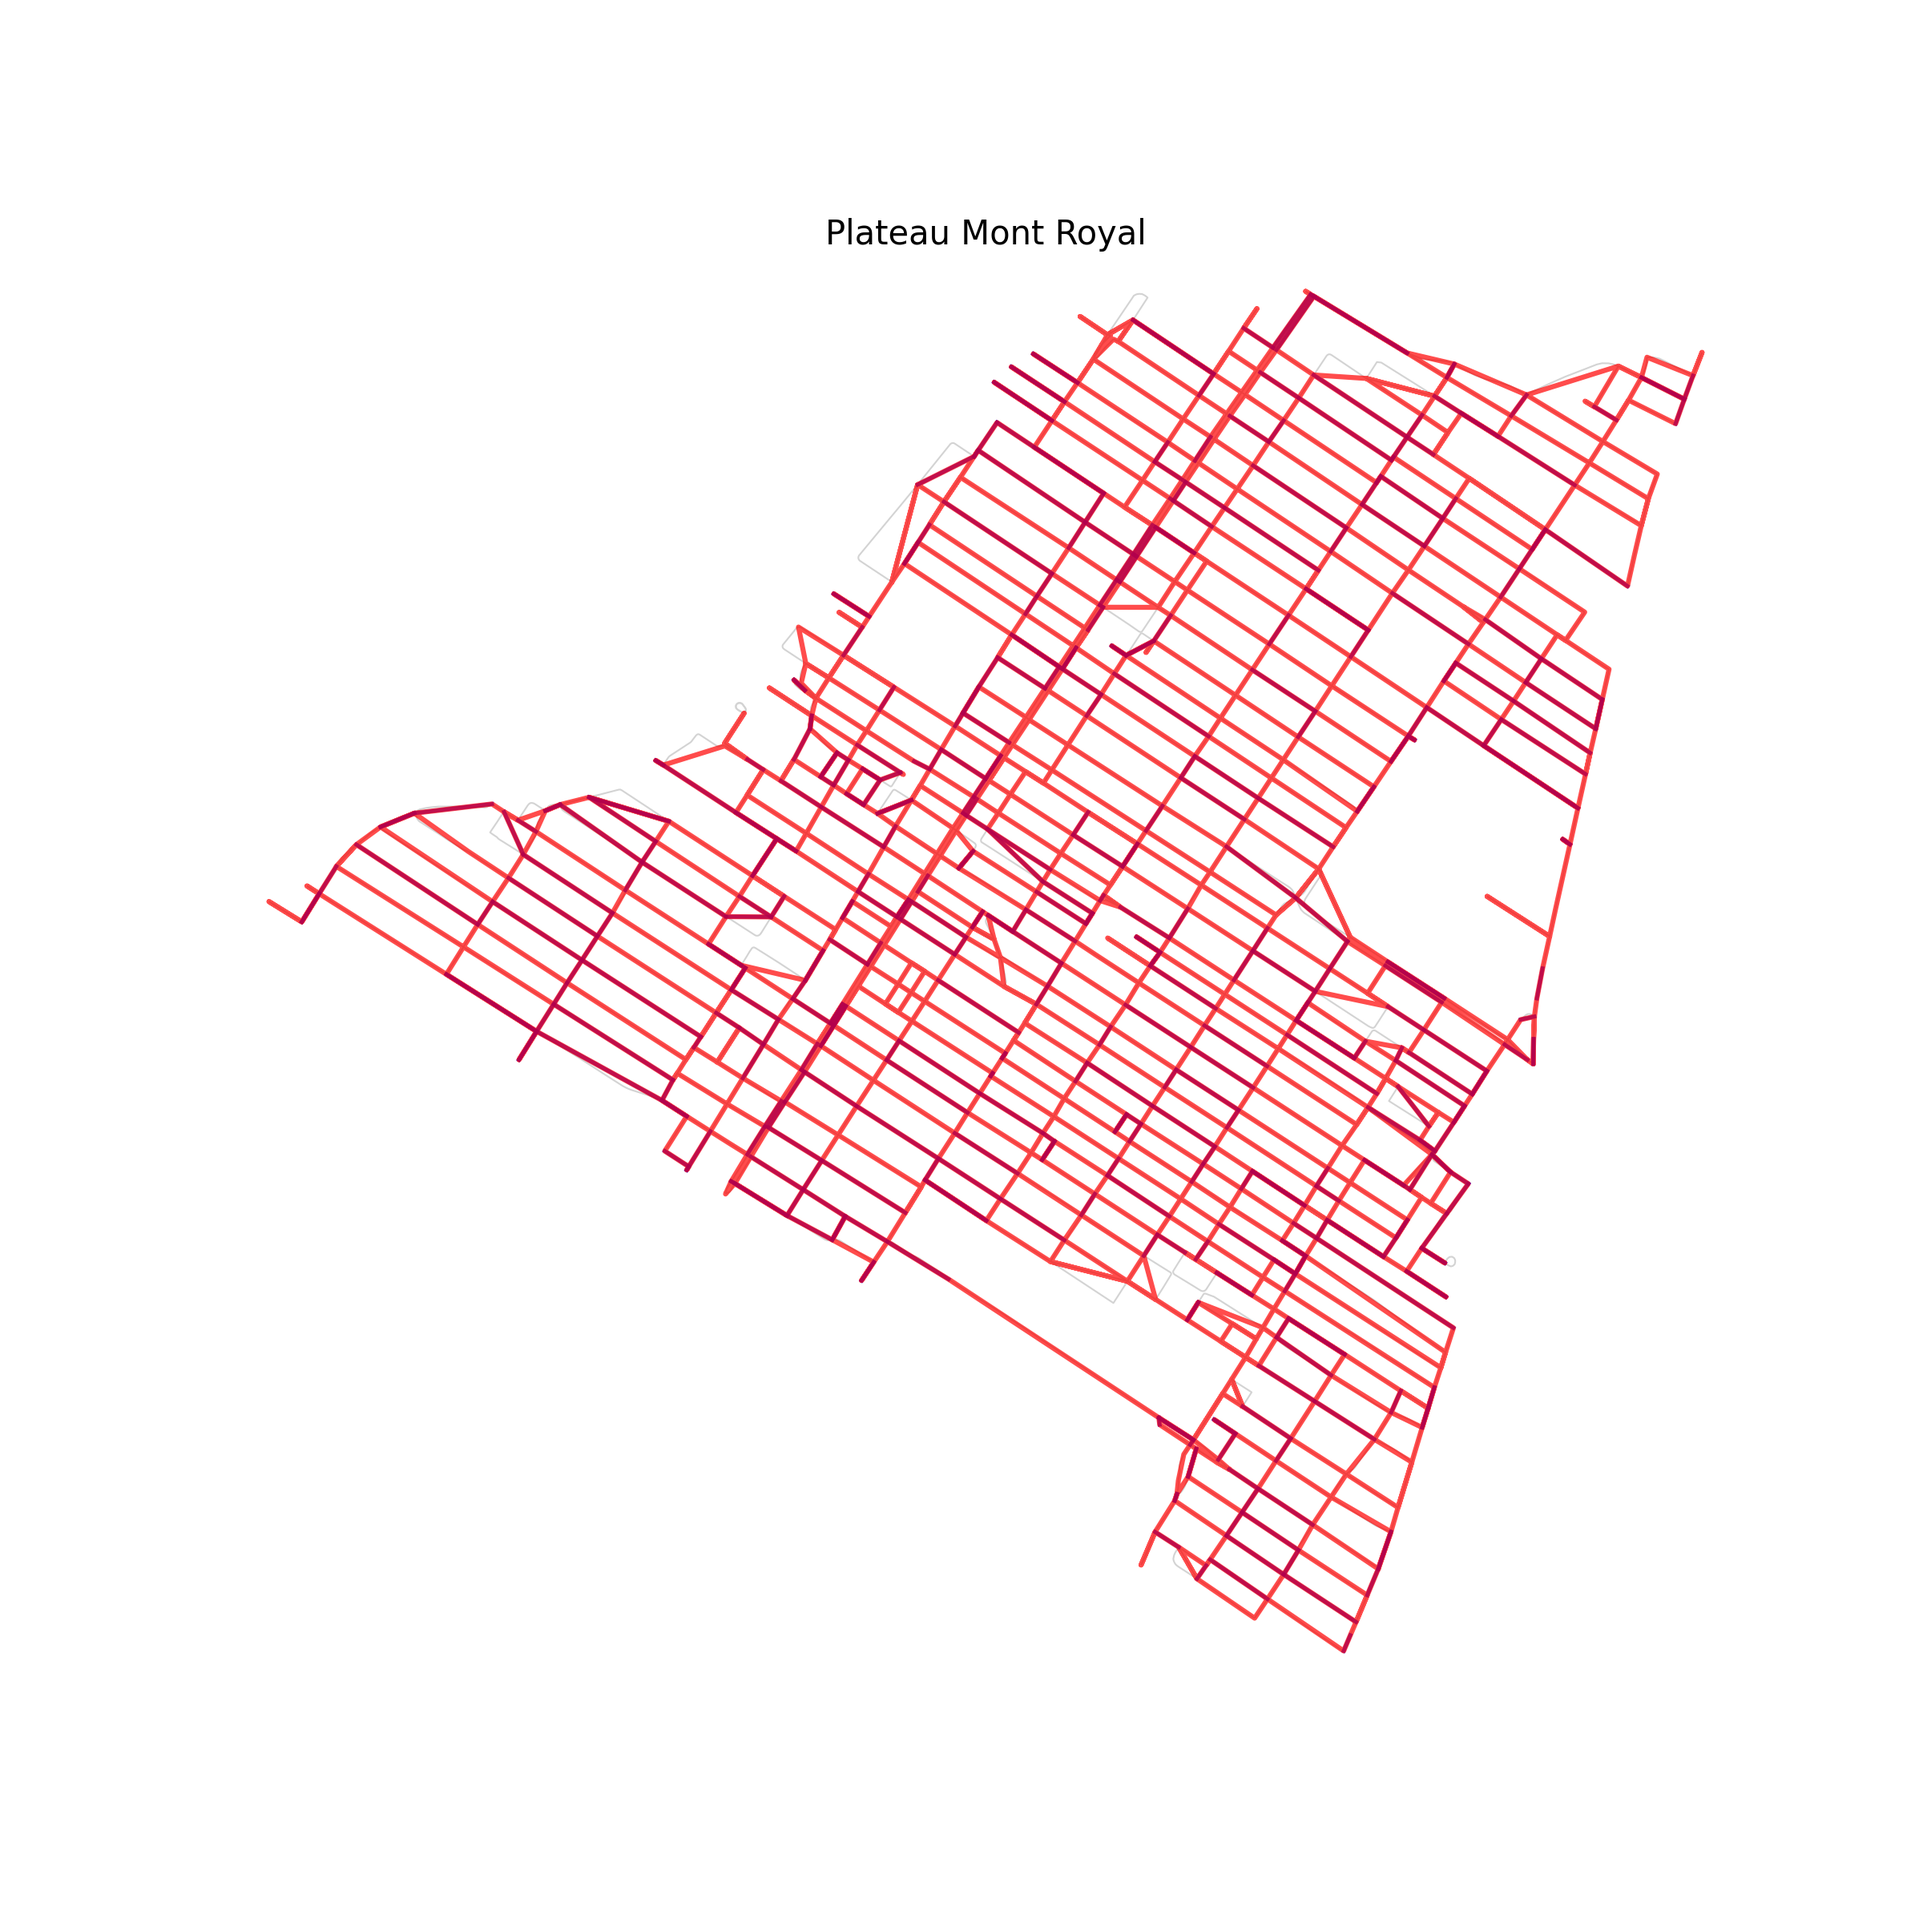
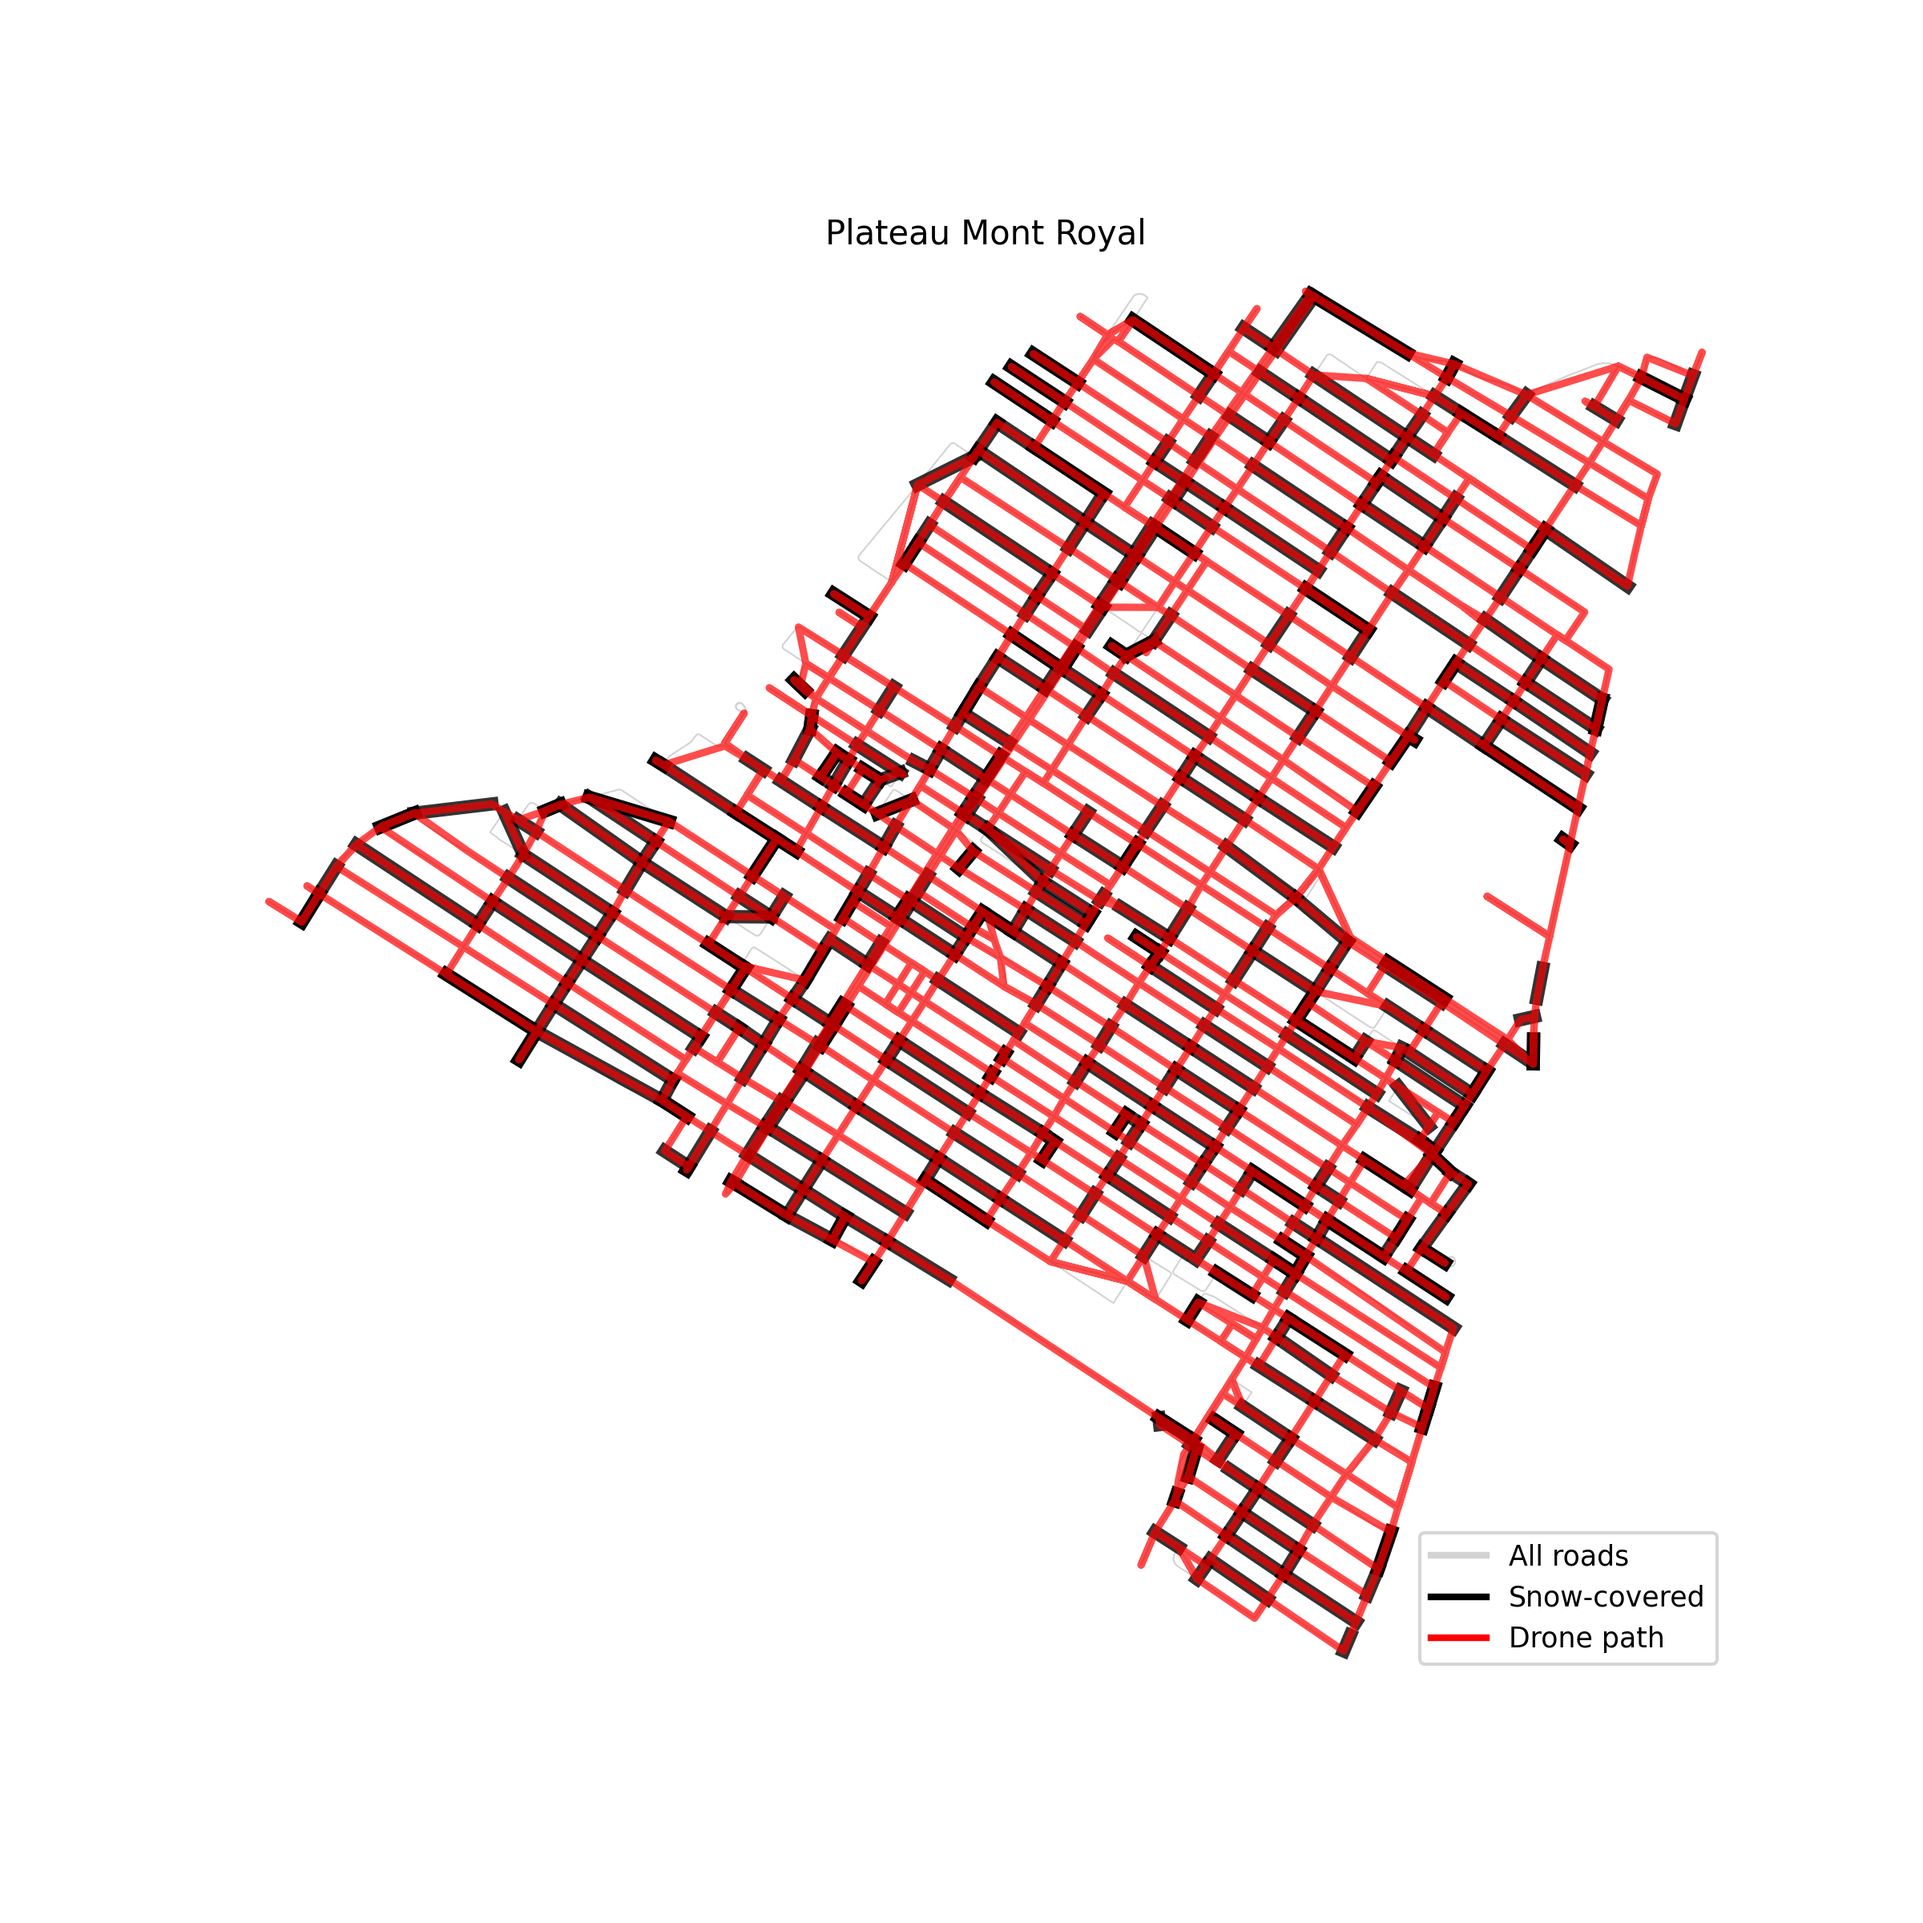
FEAT: snow map rendering

Changed region(s): [[0.1562, 0.1562, 0.9062, 0.875]]

diff --git a/drone/render_snow.py b/drone/render_snow.py
@@ -6,6 +6,7 @@ import networkx as nx
 import osmnx as ox
 import matplotlib.pyplot as plt
 from slugify import slugify
+from matplotlib.lines import Line2D
 
 NEIGHBORHOOD_DIR = "resources/neighborhoods"
 OUTPUT_DIR = "resources/graphical_output"
@@ -72,7 +73,7 @@ def render_neighborhood_with_snow(neigh_path):
         else:
             print(f"⚠ No snow_map.csv found for {slug}, skipping snow.")
 
-        # Plot base map
+        # Plot base road network (light gray)
         fig, ax = ox.plot_graph(
             G,
             show=False, close=False,
@@ -82,7 +83,7 @@ def render_neighborhood_with_snow(neigh_path):
             bgcolor='white'
         )
 
-        # Plot snowy edges in blue
+        # Plot snowy edges in blue (under drone path)
         snowy_count = 0
         if G.is_multigraph():
             for u, v, k in G.edges(keys=True):
@@ -90,16 +91,16 @@ def render_neighborhood_with_snow(neigh_path):
                     snowy_count += 1
                     x = [G.nodes[u]['x'], G.nodes[v]['x']]
                     y = [G.nodes[u]['y'], G.nodes[v]['y']]
-                    ax.plot(x, y, color='blue', linewidth=1.2, alpha=0.8)
+                    ax.plot(x, y, color='black', linewidth=4, alpha=0.8)
         else:
             for u, v in G.edges():
                 if G[u][v].get('snow', False):
                     snowy_count += 1
                     x = [G.nodes[u]['x'], G.nodes[v]['x']]
                     y = [G.nodes[u]['y'], G.nodes[v]['y']]
-                    ax.plot(x, y, color='blue', linewidth=1.2, alpha=0.8)
+                    ax.plot(x, y, color='black', linewidth=4, alpha=0.8)
 
-        print(f"🔵 {slug}: Rendered {snowy_count} snowy edges.")
+        print(f" {slug}: Rendered {snowy_count} snowy edges.")
 
         # Plot drone path in red
         valid_coords = [
@@ -109,9 +110,19 @@ def render_neighborhood_with_snow(neigh_path):
         ]
         if valid_coords:
             lats, lons = zip(*valid_coords)
-            ax.plot(lons, lats, color='red', linewidth=1.5, alpha=0.7)
+            ax.plot(lons, lats, color='red', linewidth=2.2, alpha=0.7)
 
+        # Add title and legend
         ax.set_title(f"{slug.replace('-', ' ').title()}", fontsize=10)
+
+        legend_elements = [
+            Line2D([0], [0], color='lightgray', lw=2, label='All roads'),
+            Line2D([0], [0], color='black', lw=2, label='Snow-covered'),
+            Line2D([0], [0], color='red', lw=2, label='Drone path')
+        ]
+        ax.legend(handles=legend_elements, loc='lower right', fontsize='small')
+
+        # Save output
         out_path = os.path.join(OUTPUT_DIR, f"{slug}.png")
         plt.savefig(out_path, dpi=300)
         plt.close()
